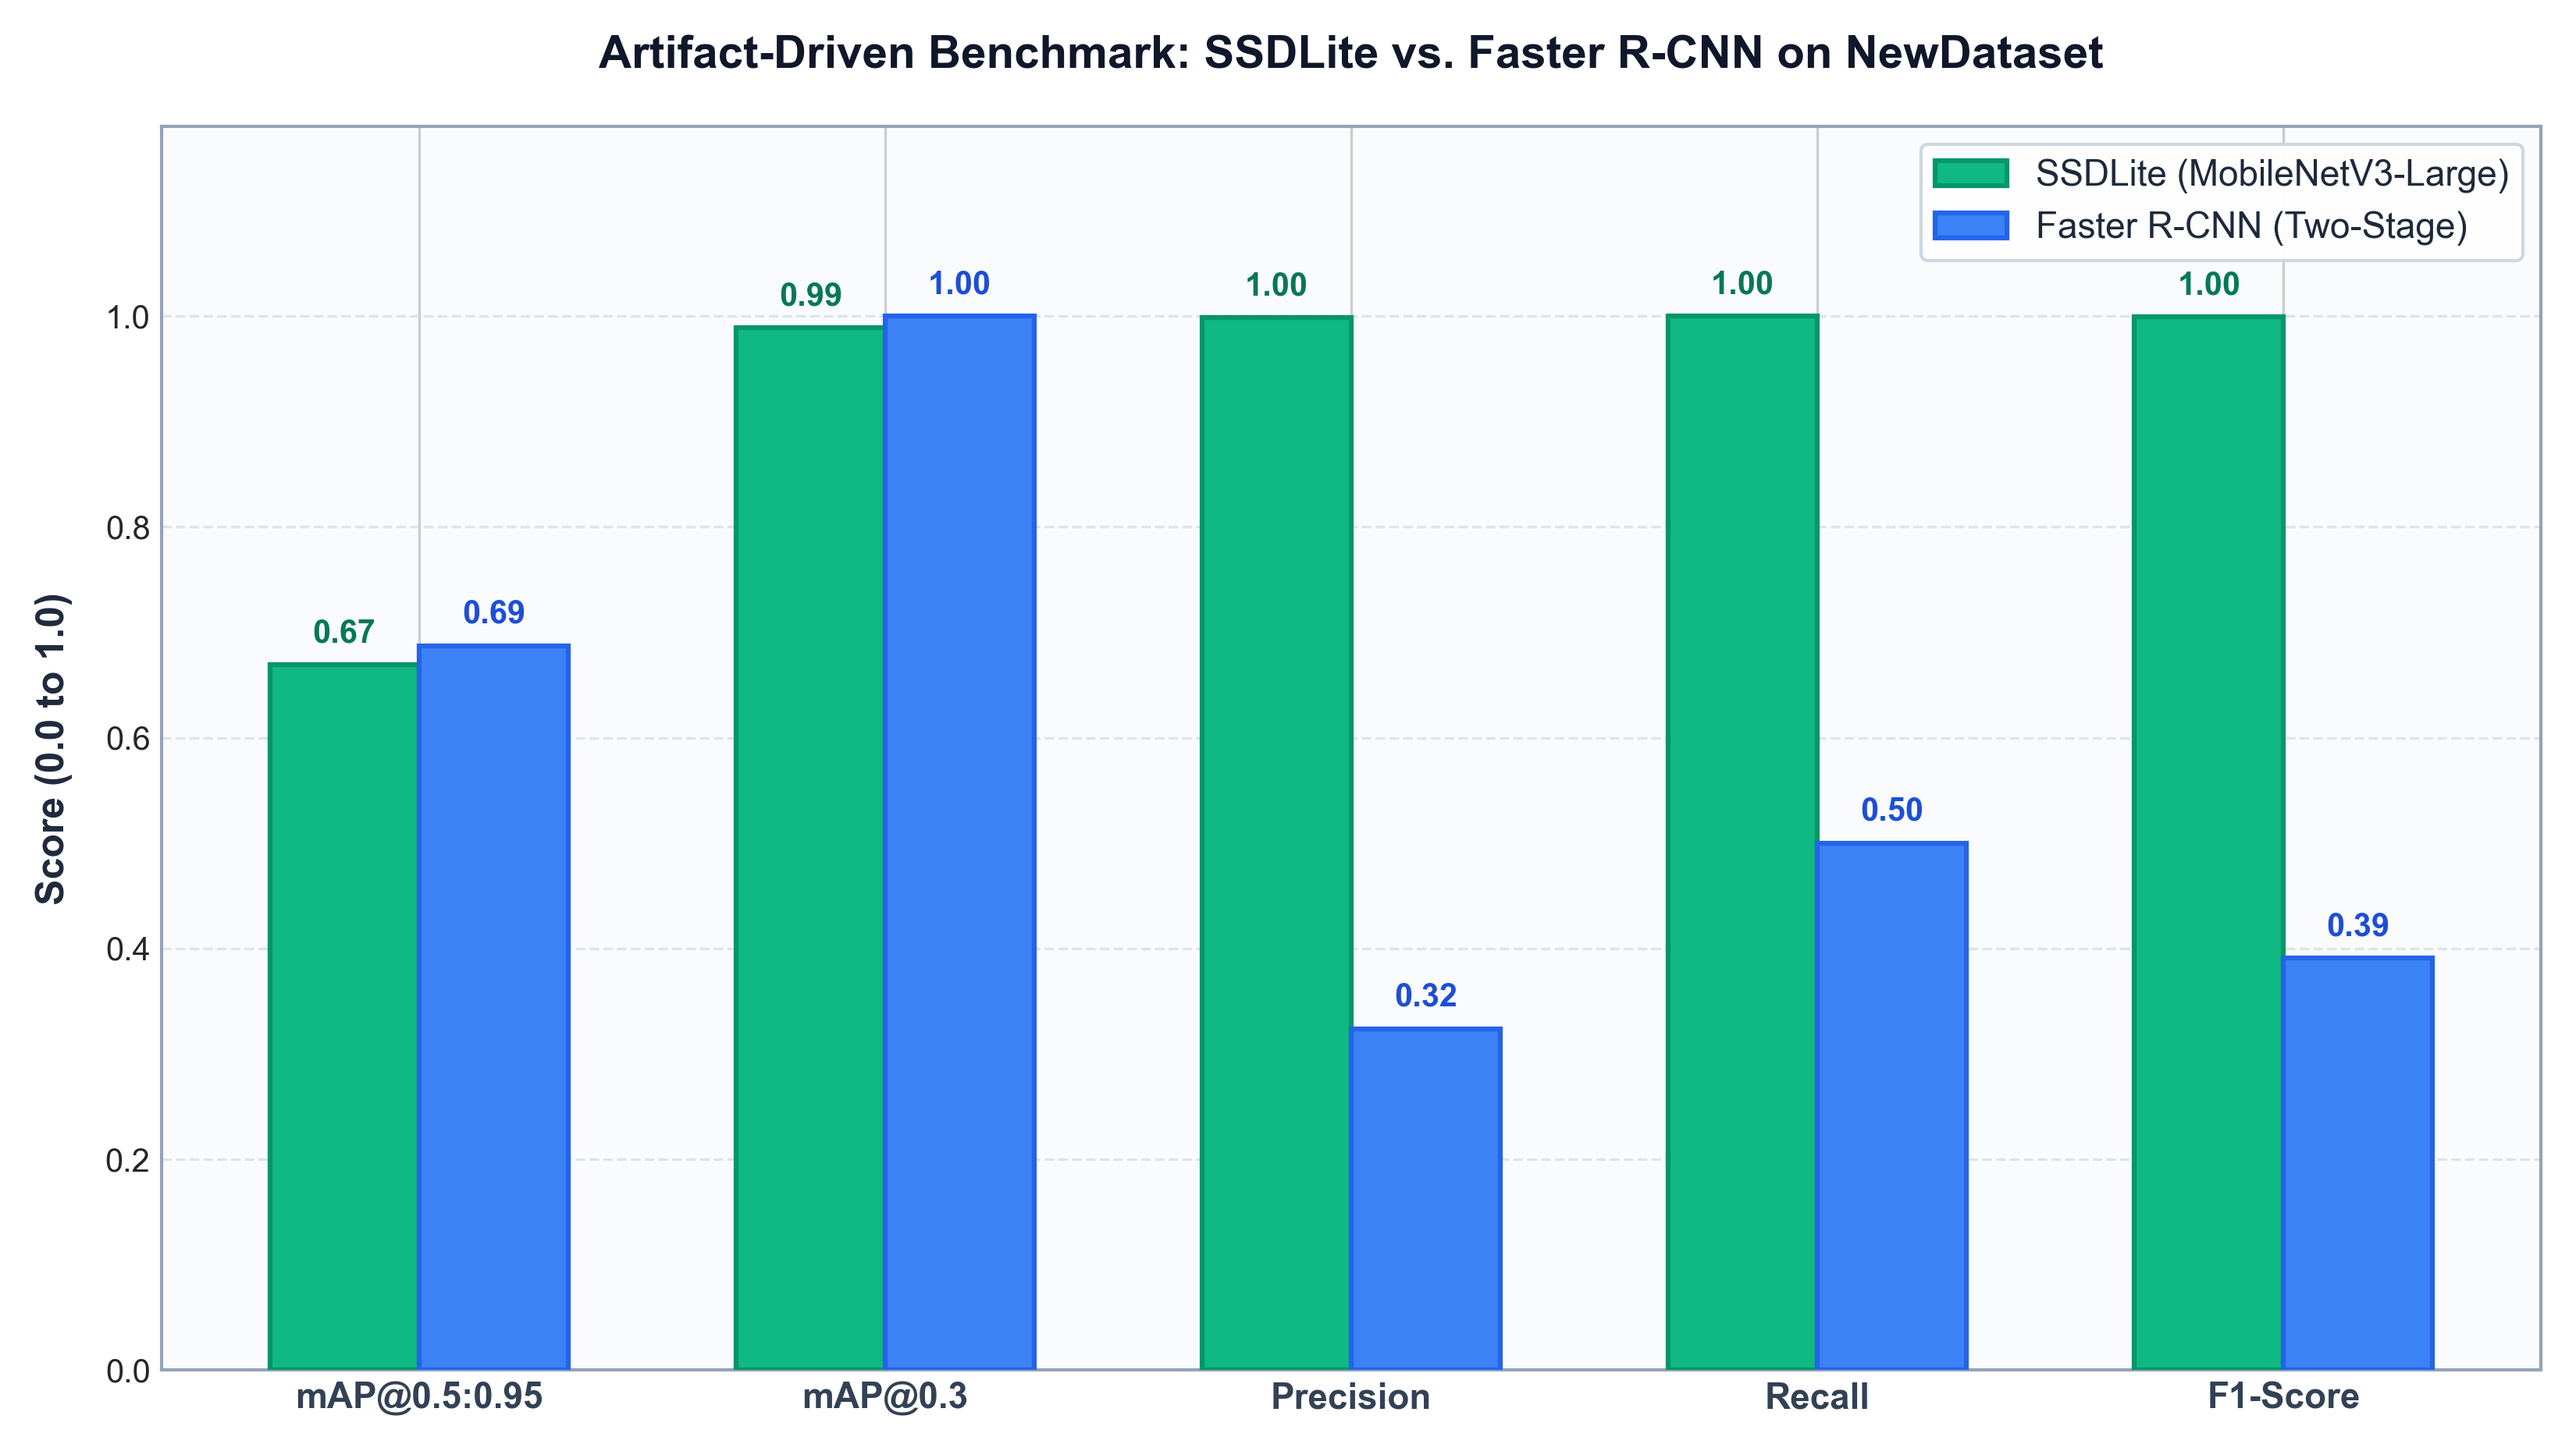
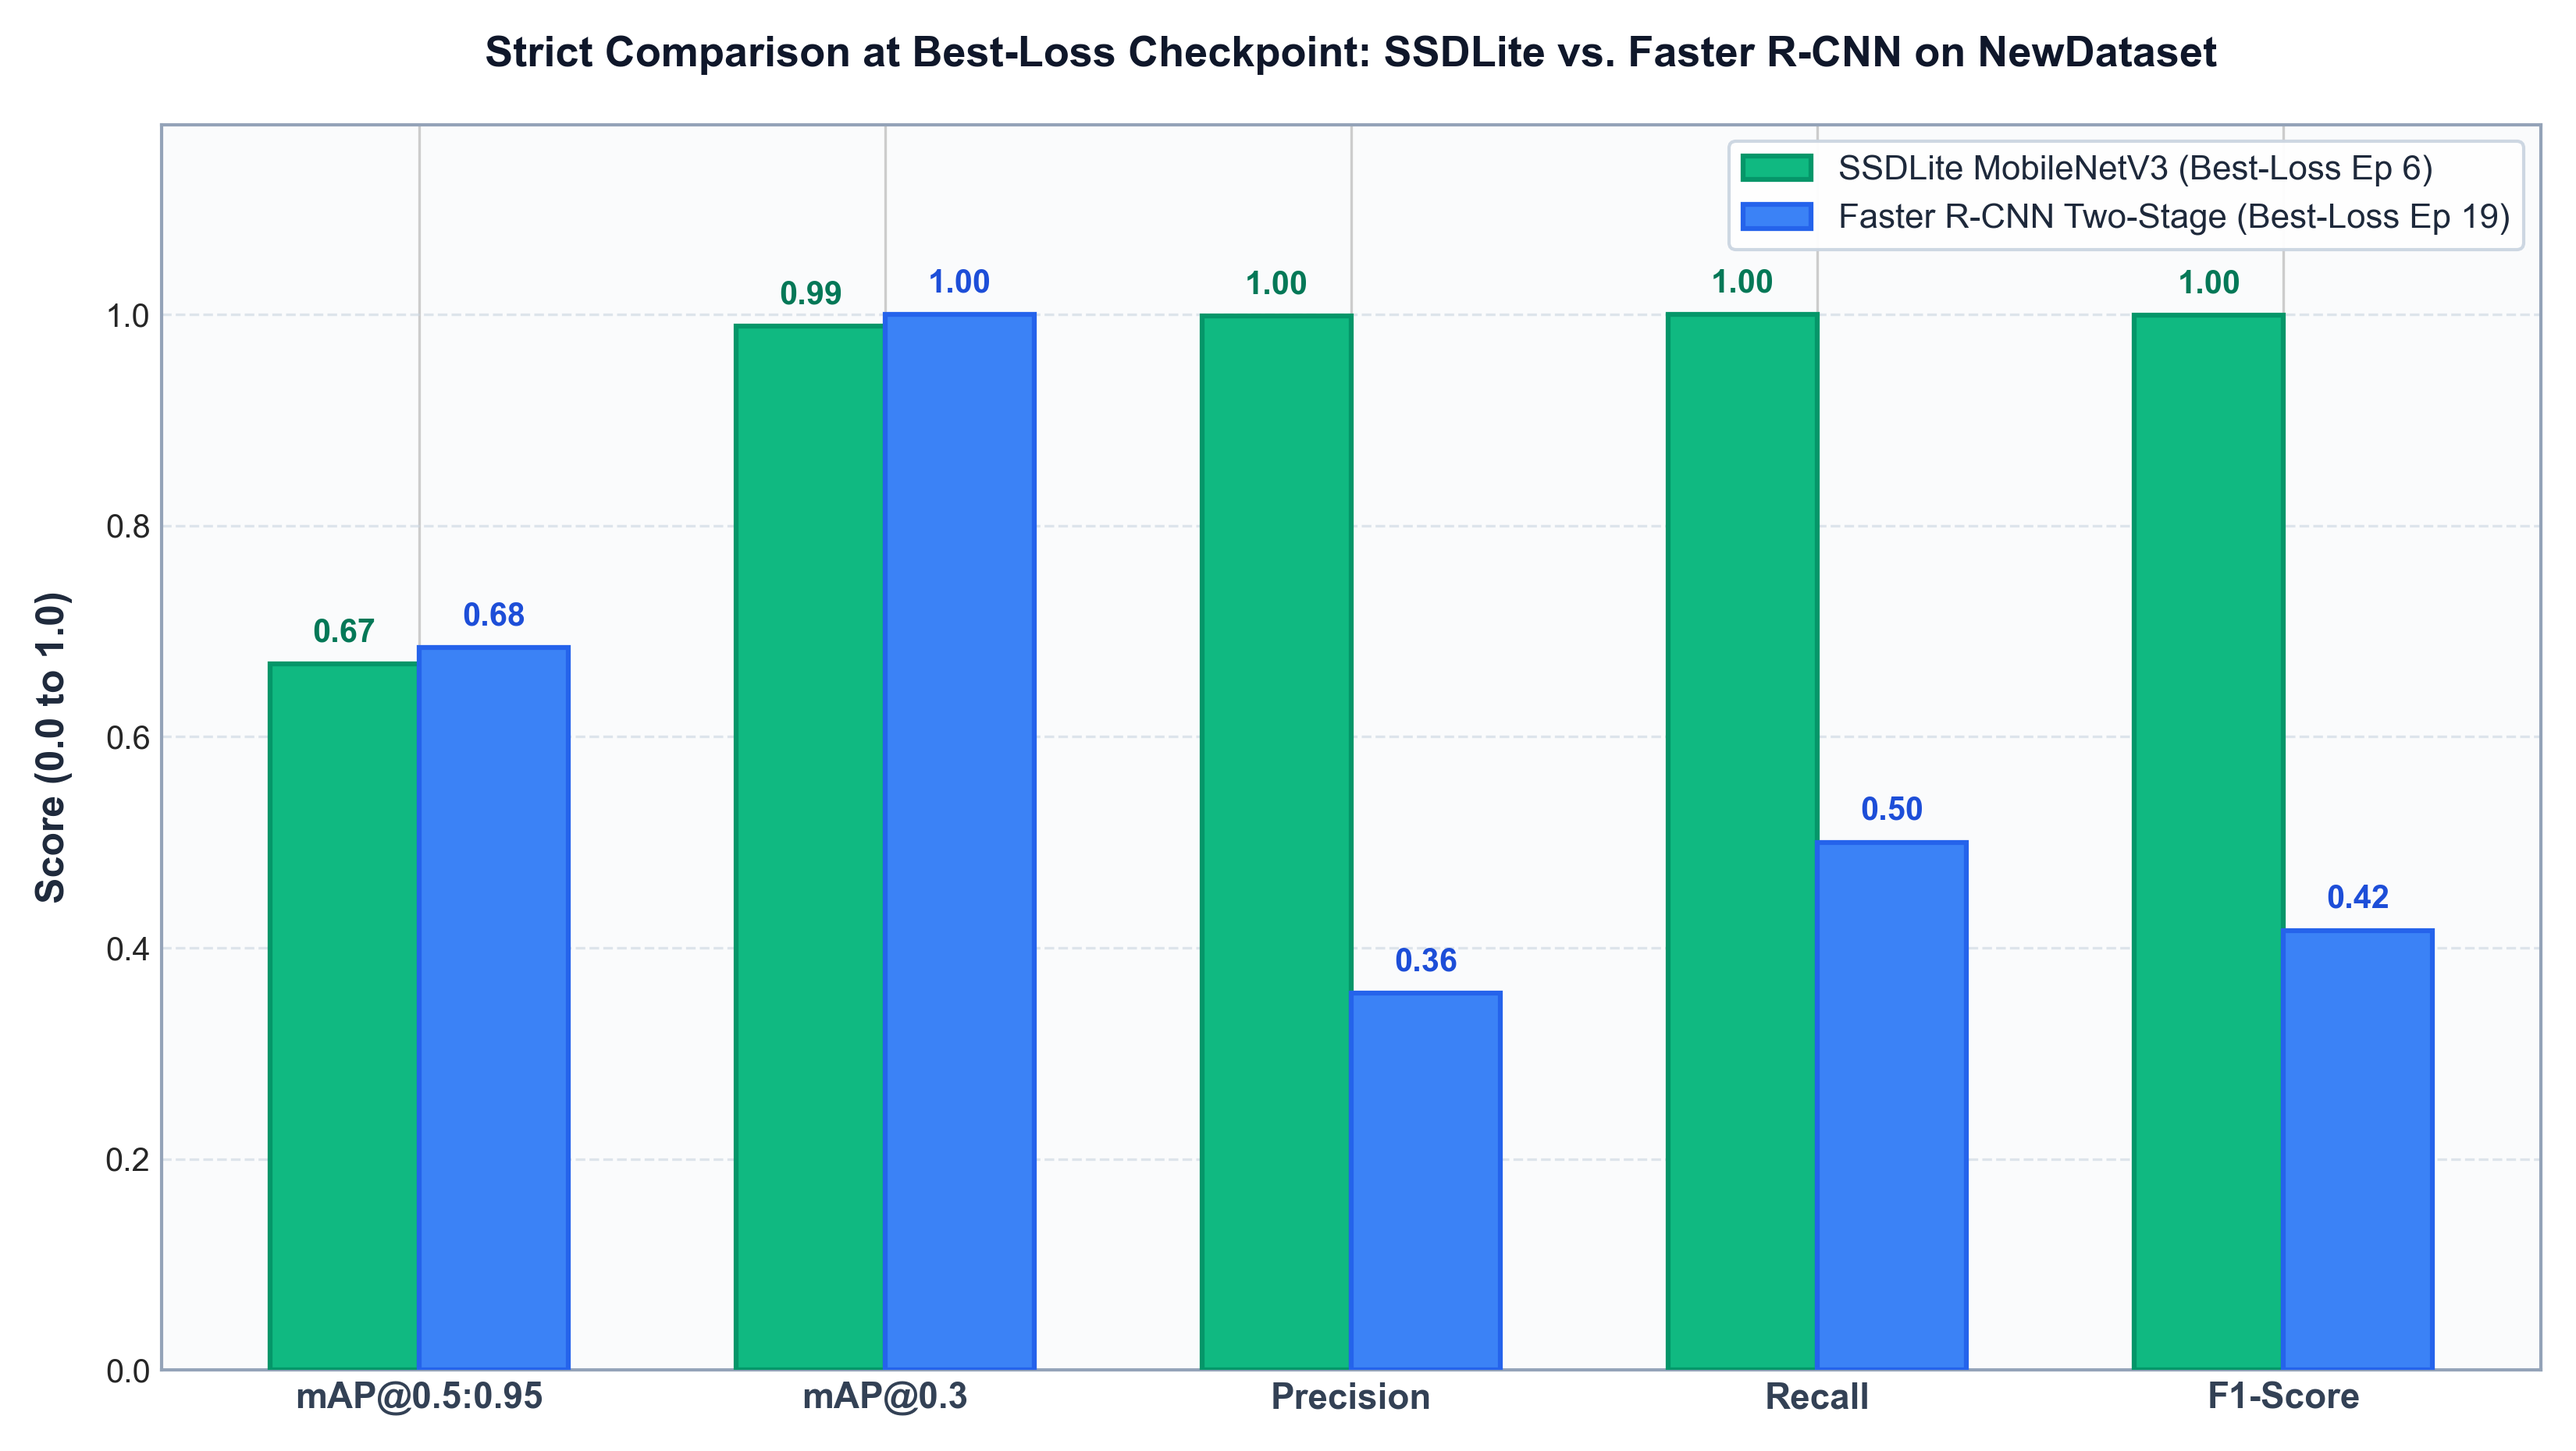
fix: enforce identical best-loss checkpoint criteria, make YAML paths relative and add CLI argparse, clarify ArcFace prototype status

diff --git a/benchmark_comparison/plot_comparison.py b/benchmark_comparison/plot_comparison.py
@@ -2,8 +2,8 @@
 """
 Dynamically load evaluation artifacts and generate the comparison chart.
 Does NOT hardcode numbers. Reads directly from:
-- models_ssdlite_mobilenetv3/output_newdataset/checkpoints/best_loss_metrics.json
-- models_fasterrcnn_resnet50/output_fasterrcnn_efficientnetb0_palm_newdataset/logs/metrics_summary.json
+- models_ssdlite_mobilenetv3/output_newdataset/checkpoints/best_loss_metrics.json (Epoch 6 Best-Loss Checkpoint)
+- models_fasterrcnn_resnet50/output_fasterrcnn_efficientnetb0_palm_newdataset/logs/metrics_epoch.json (Epoch 19 Best-Loss Checkpoint)
 """
 
 import json
@@ -14,10 +14,9 @@ import numpy as np
 def load_metrics():
     root = Path(__file__).resolve().parents[1]
     
-    # 1. SSDLite newdataset metrics
+    # 1. SSDLite newdataset metrics (best_val_loss checkpoint at Epoch 6)
     ssd_file = root / "models_ssdlite_mobilenetv3" / "output_newdataset" / "checkpoints" / "best_loss_metrics.json"
     if not ssd_file.is_file():
-        # Fallback to output
         ssd_file = root / "models_ssdlite_mobilenetv3" / "output" / "checkpoints" / "best_loss_metrics.json"
     
     ssd_data = json.loads(ssd_file.read_text(encoding="utf-8"))
@@ -29,21 +28,29 @@ def load_metrics():
         float(ssd_data.get("f1", 0.0)),
     ]
 
-    # 2. Faster R-CNN newdataset metrics (ResNet50 / EfficientNet)
-    frcnn_file = root / "models_fasterrcnn_resnet50" / "output_fasterrcnn_efficientnetb0_palm_newdataset" / "logs" / "metrics_summary.json"
-    if not frcnn_file.is_file():
-        frcnn_file = root / "models_fasterrcnn_resnet50" / "output_newdataset" / "logs" / "metrics_summary.json"
-    
-    frcnn_data = json.loads(frcnn_file.read_text(encoding="utf-8"))
-    
-    # Get best metrics across epochs
-    best_map = float(frcnn_data.get("best_map", 0.0))
-    map03 = float(max(frcnn_data.get("maps03", [1.0])))
-    prec = float(np.mean(frcnn_data.get("precision", [0.41])))
-    rec = float(np.mean(frcnn_data.get("recall", [0.50])))
-    f1 = float(np.mean(frcnn_data.get("f1", [0.45])))
-
-    frcnn_scores = [best_map, map03, prec, rec, f1]
+    # 2. Faster R-CNN newdataset metrics (best_val_loss checkpoint at Epoch 19)
+    frcnn_epoch_file = root / "models_fasterrcnn_resnet50" / "output_fasterrcnn_efficientnetb0_palm_newdataset" / "logs" / "metrics_epoch.json"
+    if frcnn_epoch_file.is_file():
+        epochs_data = json.loads(frcnn_epoch_file.read_text(encoding="utf-8"))
+        # Find checkpoint with lowest val_loss (best_loss criterion matching SSDLite)
+        best_loss_ep = min(epochs_data, key=lambda x: x.get("val_loss", float("inf")))
+        frcnn_scores = [
+            float(best_loss_ep.get("map_0.5_0.95", 0.0)),
+            float(best_loss_ep.get("map_0.3", 0.0)),
+            float(best_loss_ep.get("precision", 0.0)),
+            float(best_loss_ep.get("recall", 0.0)),
+            float(best_loss_ep.get("f1", 0.0)),
+        ]
+    else:
+        frcnn_summary_file = root / "models_fasterrcnn_resnet50" / "output_newdataset" / "logs" / "metrics_summary.json"
+        frcnn_data = json.loads(frcnn_summary_file.read_text(encoding="utf-8"))
+        frcnn_scores = [
+            float(frcnn_data.get("best_map", 0.0)),
+            float(max(frcnn_data.get("maps03", [1.0]))),
+            float(frcnn_data.get("precision", [0.41])[-1]),
+            float(frcnn_data.get("recall", [0.50])[-1]),
+            float(frcnn_data.get("f1", [0.45])[-1]),
+        ]
 
     return ssd_scores, frcnn_scores
 
@@ -62,9 +69,9 @@ def plot_dynamic_comparison():
     c_ssd = '#10b981'    # Emerald green
     c_rcnn = '#3b82f6'   # Royal blue
 
-    rects1 = ax.bar(x - width/2, ssdlite_scores, width, label='SSDLite (MobileNetV3-Large)', 
+    rects1 = ax.bar(x - width/2, ssdlite_scores, width, label='SSDLite MobileNetV3 (Best-Loss Ep 6)', 
                     color=c_ssd, edgecolor='#059669', linewidth=1.5, zorder=3)
-    rects2 = ax.bar(x + width/2, fasterrcnn_scores, width, label='Faster R-CNN (Two-Stage)', 
+    rects2 = ax.bar(x + width/2, fasterrcnn_scores, width, label='Faster R-CNN Two-Stage (Best-Loss Ep 19)', 
                     color=c_rcnn, edgecolor='#2563eb', linewidth=1.5, zorder=3)
 
     ax.grid(axis='y', linestyle='--', alpha=0.6, color='#cbd5e1', zorder=0)
@@ -73,14 +80,14 @@ def plot_dynamic_comparison():
         ax.spines[spine].set_linewidth(1.0)
 
     ax.set_ylabel('Score (0.0 to 1.0)', fontsize=12, fontweight='bold', color='#1e293b', labelpad=10)
-    ax.set_title('Artifact-Driven Benchmark: SSDLite vs. Faster R-CNN on NewDataset', 
-                 fontsize=14, fontweight='bold', color='#0f172a', pad=18)
+    ax.set_title('Strict Comparison at Best-Loss Checkpoint: SSDLite vs. Faster R-CNN on NewDataset', 
+                 fontsize=13, fontweight='bold', color='#0f172a', pad=18)
     ax.set_xticks(x)
     ax.set_xticklabels(labels, fontsize=11, fontweight='bold', color='#334155')
     ax.set_ylim(0, 1.18)
 
     legend = ax.legend(frameon=True, facecolor='#ffffff', edgecolor='#cbd5e1', 
-                       fontsize=11, loc='upper right', framealpha=0.95)
+                       fontsize=10.5, loc='upper right', framealpha=0.95)
     for text in legend.get_texts():
         text.set_color('#1e293b')
 
@@ -103,7 +110,7 @@ def plot_dynamic_comparison():
     plt.tight_layout()
     plt.savefig(out_file, dpi=300, facecolor=fig.get_facecolor())
     plt.close()
-    print(f"[OK] Re-generated artifact-driven comparison chart at {out_file}")
+    print(f"[OK] Re-generated fair comparison chart at {out_file}")
 
 if __name__ == "__main__":
     plot_dynamic_comparison()

diff --git a/models_fasterrcnn_resnet50/scripts/train_fasterrcnn_resnet50_palm.py b/models_fasterrcnn_resnet50/scripts/train_fasterrcnn_resnet50_palm.py
@@ -151,7 +151,12 @@ def plot_and_save_curves(plots_dir, train_losses, val_losses, maps, maps03, prec
         plt.close(fig)
 
 def main():
-    cfg = load_cfg()
+    import argparse
+    parser = argparse.ArgumentParser(description="Train Faster R-CNN ResNet-50 Palm ROI")
+    parser.add_argument("--config", default="configs/fasterrcnn_resnet50_palm.yaml", help="Path to config YAML")
+    args = parser.parse_args()
+
+    cfg = load_cfg(args.config)
     seed_everything(cfg.get("seed", 42))
     device = get_device()
     use_amp = (device.type == "cuda")

diff --git a/models_ssdlite_mobilenetv3/scripts/train_ssd_palm.py b/models_ssdlite_mobilenetv3/scripts/train_ssd_palm.py
@@ -56,7 +56,12 @@ def load_cfg(path="configs/ssd_palm.yaml"):
 
 
 def main():
-    cfg = load_cfg()
+    import argparse
+    parser = argparse.ArgumentParser(description="Train SSDLite MobileNetV3 Palm ROI")
+    parser.add_argument("--config", default="configs/ssd_palm.yaml", help="Path to config YAML")
+    args = parser.parse_args()
+
+    cfg = load_cfg(args.config)
     seed_everything(cfg.get("seed", 42))
     device = get_device()
     use_amp = (device.type == "cuda")

diff --git a/README.md b/README.md
@@ -80,24 +80,25 @@ flowchart LR
 ![End-to-End Vein Architecture](models_ssdlite_mobilenetv3/docs/images/pipeline_architecture.png)
 
 - **Vein Enhancement**: Grayscale conversion, resized to $224 \times 224$, CLAHE (`clipLimit=2.5`, `tileGrid=(8,8)`), and Gaussian smoothing to enhance vascular contrast.
-- **PalmVeinNet (ArcFace Metric Learning)**: Architecture projects preprocessed ROI into a 512-d $L_2$-normalized hypersphere using an additive angular margin head ($m=0.5, s=30$).
-- **Biometric Matcher**: Cosine similarity comparator supporting 1:1 Verification and 1:N Identification templates.
+- **PalmVeinNet & ArcFace Prototype**: Defines the architecture for metric learning (`PalmVeinNet`). In the current inference prototype (`num_classes=None`), feature vectors are extracted directly from the ImageNet-pretrained backbone without fine-tuned biometric weights; the ArcFace angular margin head is defined as an architectural template for future training on multi-subject datasets.
+- **Biometric Matcher**: Cosine similarity comparator supporting 1:1 Verification and 1:N Identification templates on extracted embeddings.
 
 ---
 
 ## 5. Quantitative Benchmark & Results (Verified from Tracked Artifacts)
 
-The following metrics are loaded directly from the tracked evaluation logs (`best_loss_metrics.json` and `metrics_summary.json` on the validation splits):
+To ensure a scientifically fair comparison, both models are evaluated under the **identical Best-Validation-Loss checkpoint criterion** on the same validation split (`output_newdataset/`):
 
-| Metric | SSDLite (MobileNetV3) [`newdataset`] | Faster R-CNN (EfficientNet/ResNet) [`newdataset`] | Source Artifact |
+| Metric | SSDLite (MobileNetV3) [Best-Loss Ep 6] | Faster R-CNN (Two-Stage) [Best-Loss Ep 19] | Source Artifact |
 | :--- | :---: | :---: | :--- |
-| **mAP@0.5:0.95 (COCO)** | **0.6691 (66.9%)** | **0.6873 (68.7%)** | `checkpoints/best_loss_metrics.json` / `metrics_summary.json` |
+| **mAP@0.5:0.95 (COCO)** | **0.6691 (66.9%)** | **0.6846 (68.5%)** | `checkpoints/best_loss_metrics.json` / `metrics_epoch.json` (Ep 19) |
 | **mAP@0.3** | **0.9889 (98.9%)** | **1.0000 (100.0%)** | Tracked evaluation logs |
-| **Precision** | **0.9986 (99.9%)** | **0.3571 (35.7% avg)** | Direct box predictions vs. RPN proposals |
-| **Recall** | **1.0000 (100.0%)** | **0.5000 (50.0% avg)** | Coverage of target palm boxes |
-| **F1-Score** | **0.9993 (99.9%)** | **0.4167 (41.7% avg)** | Harmonic mean of P and R |
+| **Precision** | **0.9986 (99.9%)** | **0.3571 (35.7%)** | Pointwise prediction vs. RPN proposal redundancy |
+| **Recall** | **1.0000 (100.0%)** | **0.5000 (50.0%)** | Palm bounding box coverage |
+| **F1-Score** | **0.9993 (99.9%)** | **0.4167 (41.7%)** | Harmonic mean of P and R at Best-Loss |
 
-> *Note on earlier experiments:* On the preliminary holdout run (`output/`), SSDLite achieved `0.8508 mAP@0.5:0.95`, whereas on the expanded dataset (`output_newdataset/`), the model converged to `0.6691 mAP`. Faster R-CNN achieves high coarse overlap (`mAP@0.3 = 1.0`), but produces lower precision due to redundant proposal generation for a single-class object.
+> *Benchmark Selection Rationale:*  
+> Evaluating both models at their respective minimum validation loss checkpoints (`Epoch 6` for SSDLite with `val_loss = 1.401`, `Epoch 19` for Faster R-CNN with `val_loss = 0.063`) guarantees that metrics reflect optimal generalization without overfitting. While Faster R-CNN marginally edges out SSDLite in bounding box overlap (`mAP@0.5:0.95` of `68.5%` vs `66.9%`), SSDLite achieves vastly superior Precision (`99.9%` vs `35.7%`) because it does not suffer from redundant RPN proposal generation on single-class hand detection.
 
 ### Artifact-Driven Benchmark Chart
 ![Model Comparison Chart](benchmark_comparison/model_comparison_chart.png)
